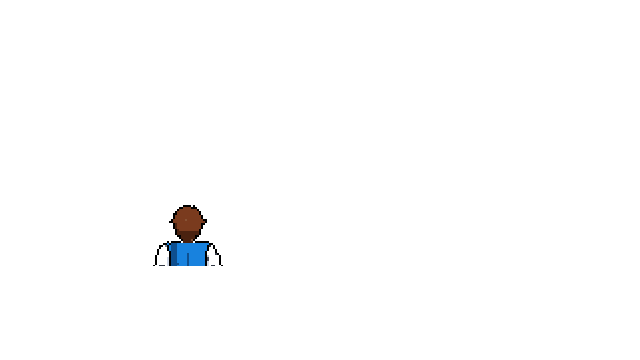
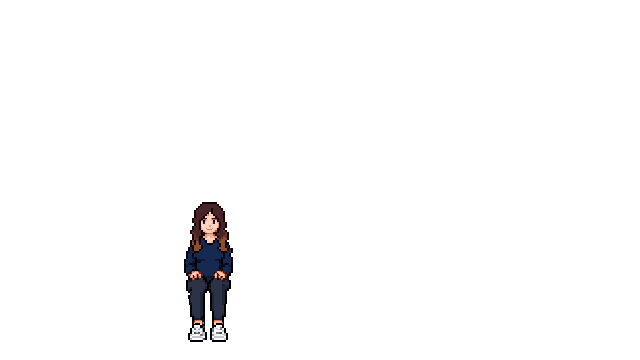
Toujours trop de sprit

Changed region(s): [[0.25, 0.55, 0.375, 0.9472]]

diff --git a/index.html b/index.html
@@ -31,19 +31,30 @@
       </div>
 
       <!-- Wagons : calques empilés de l'arrière vers l'avant, un seul wagon visible à la fois -->
+      <!-- Wagon 01 : les élèves, tous tournés vers le spectateur.
+           Les bancs sont des calques séparés (banc-01 au fond, banc-02 au milieu, banc-03 devant) :
+           les voyageurs d'une rangée se placent juste après le calque de leur banc.
+           Pensées provisoires (Lorem ipsum) en attendant les vraies. -->
       <section class="wagon" data-titre="Lorem ipsum">
         <img class="wagon__calque" src="assets/images/commun/passage.png" alt="">
         <img class="wagon__calque wagon__porte wagon__porte--gauche" src="assets/images/commun/porte-gauche.png" alt="">
         <img class="wagon__calque wagon__porte wagon__porte--droite" src="assets/images/commun/porte-droite.png" alt="">
-        <img class="wagon__calque" src="assets/images/wagon-01/interieur.png" alt="Intérieur du wagon, banquettes en bois face à face">
-        <img class="wagon__calque" src="assets/images/wagon-01/banc-02.png" alt="">
+        <img class="wagon__calque" src="assets/images/wagon-01/interieur.png" alt="Intérieur d'une voiture en bois, banquettes tournées vers le spectateur">
         <img class="wagon__calque" src="assets/images/wagon-01/banc-01.png" alt="">
-        <img class="wagon__calque" src="assets/images/wagon-01/banc-03.png" alt="">
-        <img class="wagon__calque wagon__personnage" src="assets/images/wagon-01/personnage-01.png" alt="Vieux monsieur assis de dos" data-nom="Margot" data-pensee="Lorem ipsum dolor sit amet, consectetur adipiscing elit.">
-        <img class="wagon__calque wagon__personnage" src="assets/images/wagon-01/personnage-02.png" alt="Voyageuse aux cheveux violets, assise de face" data-nom="Jules" data-pensee="Sed do eiusmod tempor incididunt ut labore.">
+        <img class="wagon__calque" src="assets/images/wagon-01/banc-02.png" alt="">
+        <!-- Rangée du milieu -->
+        <img class="wagon__calque wagon__personnage" src="assets/images/wagon-01/personnage-01.png" alt="Lino, assis sur la banquette (personnage provisoire)" data-nom="Lino" data-pensee="Lorem ipsum dolor sit amet, consectetur adipiscing elit.">
         <!-- Joaquim : sprite dessiné par Lino, posé tel quel (sans retouche ni mise à l'échelle) -->
-        <img class="wagon__calque wagon__personnage" src="assets/images/wagon-01/personnage-03.png" alt="Joaquim, assis sur la banquette, un livre bleu sur les genoux" data-nom="Joaquim" data-pensee="Ut enim ad minim veniam, quis nostrud.">
-        <img class="wagon__calque wagon__personnage" src="assets/images/wagon-01/personnage-04.png" alt="Voyageur assis de dos" data-nom="Paul" data-pensee="Duis aute irure dolor in reprehenderit.">
+        <img class="wagon__calque wagon__personnage" src="assets/images/wagon-01/personnage-02.png" alt="Joaquim, assis sur la banquette, un livre bleu sur les genoux" data-nom="Joaquim" data-pensee="Ut enim ad minim veniam, quis nostrud.">
+        <img class="wagon__calque wagon__personnage" src="assets/images/wagon-01/personnage-03.png" alt="Inas, assis sur la banquette (personnage provisoire)" data-nom="Inas" data-pensee="Sed do eiusmod tempor incididunt ut labore.">
+        <!-- Erine : sprite dessiné par Inas, posé tel quel. Elle ne parle qu'en PHP (bulle de code) -->
+        <img class="wagon__calque wagon__personnage" src="assets/images/wagon-01/personnage-04.png" alt="Erine, longs cheveux bruns, pull bleu marine, assise sur la banquette" data-nom="Erine" data-langage="php" data-pensee="<?php echo &quot;Lorem ipsum dolor sit amet&quot;; ?>">
+        <img class="wagon__calque" src="assets/images/wagon-01/banc-03.png" alt="">
+        <!-- Rangée de devant, coupée par le bas de l'écran -->
+        <img class="wagon__calque wagon__personnage" src="assets/images/wagon-01/personnage-05.png" alt="Lilian, assis sur la banquette (personnage provisoire)" data-nom="Lilian" data-pensee="Duis aute irure dolor in reprehenderit.">
+        <img class="wagon__calque wagon__personnage" src="assets/images/wagon-01/personnage-06.png" alt="Raphaël, assis sur la banquette (personnage provisoire)" data-nom="Raphaël" data-pensee="Excepteur sint occaecat cupidatat non proident.">
+        <img class="wagon__calque wagon__personnage" src="assets/images/wagon-01/personnage-07.png" alt="Liku, assis sur la banquette (personnage provisoire)" data-nom="Liku" data-pensee="Nemo enim ipsam voluptatem quia voluptas sit.">
+        <img class="wagon__calque wagon__personnage" src="assets/images/wagon-01/personnage-08.png" alt="Alio, assis sur la banquette (personnage provisoire)" data-nom="Alio" data-pensee="Quis autem vel eum iure reprehenderit.">
       </section>
 
       <!-- Wagon 02 : voiture-salon de 1re classe d'un train à vapeur (vers 1900).
@@ -58,10 +69,13 @@
         <img class="wagon__calque wagon__porte wagon__porte--droite" src="assets/images/commun/porte-droite.png" alt="">
         <img class="wagon__calque" src="assets/images/wagon-02/interieur.png" alt="Voiture-salon de luxe d'un train à vapeur : boiseries d'acajou, fauteuils de velours rouge, lampes à gaz">
         <img class="wagon__calque wagon__lueur" src="assets/images/wagon-02/lueurs.png" alt="">
-        <img class="wagon__calque wagon__personnage" src="assets/images/wagon-02/personnage-01.png" alt="Monsieur en haut-de-forme" data-nom="Max" data-pensee="Quis autem vel eum iure reprehenderit.">
-        <img class="wagon__calque wagon__personnage" src="assets/images/wagon-02/personnage-02.png" alt="Dame au grand chapeau à plume" data-nom="Rose" data-pensee="Neque porro quisquam est, qui dolorem ipsum.">
-        <img class="wagon__calque wagon__personnage" src="assets/images/wagon-02/personnage-03.png" alt="Enfant en costume marin" data-nom="Lucie" data-pensee="Excepteur sint occaecat cupidatat non proident.">
-        <img class="wagon__calque wagon__personnage" src="assets/images/wagon-02/personnage-04.png" alt="Vieux monsieur à canne et monocle" data-nom="Hugo" data-pensee="Nemo enim ipsam voluptatem quia voluptas sit.">
+        <!-- Les professeurs, en tenues de 1900, dans des fauteuils pivotants tournés vers le spectateur.
+             Pensées provisoires (Lorem ipsum) en attendant les vraies. -->
+        <img class="wagon__calque wagon__personnage" src="assets/images/wagon-02/personnage-01.png" alt="Mr Blanco, chapeau melon et noeud papillon rouge, dans un fauteuil de velours" data-nom="Mr Blanco" data-pensee="Quis autem vel eum iure reprehenderit.">
+        <img class="wagon__calque wagon__personnage" src="assets/images/wagon-02/personnage-02.png" alt="Mr Bernard, haut-de-forme et monocle, un journal sur les genoux" data-nom="Mr Bernard" data-pensee="Neque porro quisquam est, qui dolorem ipsum.">
+        <img class="wagon__calque wagon__personnage" src="assets/images/wagon-02/personnage-03.png" alt="Mme De velder, grand chapeau à plume et robe turquoise" data-nom="Mme De velder" data-pensee="Excepteur sint occaecat cupidatat non proident.">
+        <img class="wagon__calque wagon__personnage" src="assets/images/wagon-02/personnage-04.png" alt="Mme Pitot, chignon et robe violette à col montant" data-nom="Mme Pitot" data-pensee="Nemo enim ipsam voluptatem quia voluptas sit.">
+        <img class="wagon__calque wagon__personnage" src="assets/images/wagon-02/personnage-05.png" alt="Mr Gassin, canotier de paille et veste bleu marine, au premier plan" data-nom="Mr Gassin" data-pensee="Ut enim ad minima veniam, quis nostrum.">
       </section>
 
       <section class="wagon" data-titre="Consectetur">

diff --git a/js/main.js b/js/main.js
@@ -287,11 +287,25 @@ function porteVerrouillee(portes) {
 }
 
 
+// Calques de décor placés après ce personnage dans son wagon (bancs de devant, par exemple) :
+// ils sont dessinés par-dessus lui et cachent une partie de son corps.
+// Les calques d'ambiance (lueurs, fumée) sont transparents à l'oeil et ne comptent pas.
+// image : élément img.wagon__personnage
+function calquesDevant(image) {
+  const calques = [...image.closest(".wagon").querySelectorAll(".wagon__calque")];
+  return calques
+    .slice(calques.indexOf(image) + 1)
+    .filter((calque) => !calque.matches(".wagon__personnage, .wagon__lueur, .wagon__fumee"));
+}
+
 // Lit les pixels d'une image de personnage : quels pixels sont visibles,
 // et où se trouve le haut de sa tête (ancrage de la bulle).
+// Le personnage est dessiné en entier : les pixels cachés par un calque de décor posé
+// devant lui (un banc) sont retirés, pour que seul ce qu'on voit de lui réagisse au survol.
 // image : élément img.wagon__personnage
 async function analyserPersonnage(image) {
-  await image.decode();
+  const devant = calquesDevant(image);
+  await Promise.all([image, ...devant].map((calque) => calque.decode()));
 
   // On dessine l'image en taille réelle (640 x 360) dans un canvas invisible
   const toile = document.createElement("canvas");
@@ -299,6 +313,9 @@ async function analyserPersonnage(image) {
   toile.height = TOILE_HAUTEUR;
   const contexte = toile.getContext("2d");
   contexte.drawImage(image, 0, 0, TOILE_LARGEUR, TOILE_HAUTEUR);
+  // "destination-out" efface du personnage tout ce que les calques de devant recouvrent
+  contexte.globalCompositeOperation = "destination-out";
+  devant.forEach((calque) => contexte.drawImage(calque, 0, 0, TOILE_LARGEUR, TOILE_HAUTEUR));
   const pixels = contexte.getImageData(0, 0, TOILE_LARGEUR, TOILE_HAUTEUR).data;
 
   // Un pixel est visible si son canal alpha (4e valeur) n'est pas nul
@@ -389,6 +406,8 @@ function afficherPensee(image) {
   const presBordGauche = positionX < ZONE_BORD;
   const presBordDroit = positionX > 1 - ZONE_BORD;
   bulleNom.textContent = image.dataset.nom;
+  // Un voyageur qui « parle » en code (data-langage, ex. Erine en PHP) a une bulle de code
+  bulle.classList.toggle("pensee--code", Boolean(image.dataset.langage));
   ecrirePensee(image.dataset.pensee);
 
   // Près d'un bord, la bulle s'aligne sur la tête au lieu d'être centrée

diff --git a/css/style.css b/css/style.css
@@ -25,6 +25,8 @@
   --couleur-contour: #ffffff;
   --couleur-etiquette-fermee: #d8364b;
   --couleur-pensee-nom: #1882de;
+  /* Texte des voyageurs qui « parlent » en code (Erine, en PHP) */
+  --couleur-pensee-code: #6a3d8f;
   --couleur-actif: #fdc86e;
   --couleur-voile-accueil: rgba(27, 26, 38, 0.82);
   --couleur-voile-carton: rgba(27, 26, 38, 0.75);
@@ -368,6 +370,12 @@ img {
   margin-left: calc(-3.5 * var(--pensee-pixel));
   background: url("../assets/images/interface/bulle-queue.png") center / 100% 100% no-repeat;
   image-rendering: pixelated;
+}
+
+/* Pensée écrite en code (attribut data-langage sur le personnage) : violet du PHP, sans coupure de mot */
+.pensee--code .pensee__texte {
+  color: var(--couleur-pensee-code);
+  overflow-wrap: anywhere;
 }
 
 /* Personnage près du bord gauche : la bulle part vers la droite,

diff --git a/DOCUMENTATION.md b/DOCUMENTATION.md
@@ -28,6 +28,7 @@ Des personnages sont assis dans le wagon. Selon l'architecture du wagon, on les 
 - La bulle est un nuage pixel art (`assets/images/interface/bulle-cadre.png`, découpé en 9 morceaux par le CSS) relié à la tête par deux petites bulles (`bulle-queue.png`). Elle affiche le prénom du personnage (`data-nom`) puis sa pensée, écrite lettre par lettre.
 - Le survol est détecté au pixel près : seuls les pixels visibles du calque du personnage comptent, pas le rectangle de l'image.
 - La bulle se place au-dessus du pixel le plus haut du personnage (le haut de la tête). Rien à régler : dessiner le personnage suffit.
+- Un personnage qui « parle » en code (Erine, qui ne parle qu'en PHP) porte `data-langage="php"` : sa pensée s'écrit en violet, comme du code (`<?php echo "..."; ?>`).
 - Cette détection lit les pixels des images, ce que le navigateur n'autorise qu'avec un serveur. Il faut donc toujours ouvrir le site avec Live Server, jamais en double-cliquant sur `index.html`.
 
 Le rendu est en **pixel art 2D**, dans le style de Joaquim (le personnage de Lino) : voir la charte de direction artistique, section 4.
@@ -125,7 +126,9 @@ R.308---Multimedia/
     │   │   ├── bulle-queue.png     petites bulles entre le nuage et la tête (7 x 11)
     │   │   └── curseur-oeil.png    curseur sur un personnage (32 x 32)
     │   ├── wagon-01/
-    │   │   ├── interieur.png       parois, sol, plafond, banquettes
+    │   │   ├── interieur.png       parois, sol, plafond (sans les bancs)
+    │   │   ├── banc-01.png         rangée de bancs du fond (et poêle), puis banc-02 au milieu, banc-03 devant
+    │   │   ├── erine.png           sprite d'Erine dessiné par Inas (source, pas affiché tel quel)
     │   │   ├── personnage-01.png   un fichier par personnage
     │   │   └── personnage-02.png   ...
     │   ├── wagon-02/
@@ -151,7 +154,7 @@ Ces règles garantissent que les dessins des 4 membres s'assemblent sans retouch
 
 ### Charte de direction artistique (DA « Joaquim »)
 
-La référence visuelle du projet est **Joaquim**, le personnage dessiné par Lino (sprite de 70 x 144 pixels, assis sur une banquette du wagon 01 : `assets/images/wagon-01/personnage-03.png`). Tout ce qu'on dessine doit pouvoir s'asseoir à côté de lui sans faire tache. L'esprit : de la 2D simple, colorée et expressive, comme les jeux Pokémon en 2D. Pas de 3D, pas de rendu réaliste.
+La référence visuelle du projet est **Joaquim**, le personnage dessiné par Lino (sprite de 70 x 144 pixels, assis sur une banquette du wagon 01 : `assets/images/wagon-01/personnage-02.png`). Tout ce qu'on dessine doit pouvoir s'asseoir à côté de lui sans faire tache. L'esprit : de la 2D simple, colorée et expressive, comme les jeux Pokémon en 2D. Pas de 3D, pas de rendu réaliste.
 
 | Règle | Concrètement |
 |---|---|
@@ -161,7 +164,7 @@ La référence visuelle du projet est **Joaquim**, le personnage dessiné par Li
 | Encrage du décor | Entre deux zones de couleur du décor (deux faces d'un meuble, un cadre de fenêtre, une porte), un trait d'un pixel plus sombre que la couleur. Autour des trous (fenêtres, porte), un trait noir. |
 | Ombres simples | Une couleur de base, une ombre (plus sombre et un peu bleutée, jamais grise) et au besoin un reflet clair. Trois tons par matière, pas plus. |
 | Couleurs vives | Couleurs franches et saturées, paysage de beau temps (ciel bleu, collines vertes). Une ambiance plus sombre est permise si le wagon le demande (le salon vapeur, chaud et feutré). |
-| Personnages | Proportions et ombrages de Joaquim : tête d'environ un quart de la hauteur du personnage assis, corps large d'environ la moitié de sa hauteur bras compris, chemise blanche à plis gris, deux tons par vêtement, trait noir entre les pièces. Les voyageurs provisoires du wagon 01 sont des variantes de Joaquim (couleurs, coiffure, lunettes, vue de dos). |
+| Personnages | Proportions et ombrages de Joaquim : tête d'environ un quart de la hauteur du personnage assis, corps large d'environ la moitié de sa hauteur bras compris, chemise blanche à plis gris, deux tons par vêtement, trait noir entre les pièces. Les voyageurs provisoires sont des variantes de Joaquim (couleurs, coiffure, lunettes ; au wagon 02, chapeaux, moustaches, robes longues de 1900) en attendant que chacun dessine son propre sprite. |
 | Pixel net | Pixels pleins uniquement : pas d'anticrénelage, pas de pixel semi-transparent. Les trames (un pixel sur deux) sont permises pour les lumières et la vapeur. |
 | Pas de mise à l'échelle | Un sprite se dessine directement à sa taille finale, jamais agrandi ou réduit après coup (sinon les pixels ne sont plus de la même taille que ceux de Joaquim). |
 
@@ -169,7 +172,7 @@ Taille des personnages : un adulte assis mesure **72 pixels de grille** de haut 
 
 Interface : boutons et étiquettes façon boîte de dialogue de jeu 2D (fond blanc, trait noir, ombre pleine), titre d'accueil jaune cerné de bleu nuit.
 
-Pour vérifier un dessin : l'ouvrir à côté de `wagon-01/personnage-03.png` (Joaquim) au même zoom. Mêmes tailles de pixels, même épaisseur de trait, couleurs aussi vives : c'est bon.
+Pour vérifier un dessin : l'ouvrir à côté de `wagon-01/personnage-02.png` (Joaquim) au même zoom. Mêmes tailles de pixels, même épaisseur de trait, couleurs aussi vives : c'est bon.
 
 ### Format
 
@@ -194,7 +197,7 @@ Point de fuite : **x = 320, y = 180** (centre exact de la toile).
 | Banquettes | le long des parois, du bas de l'écran jusqu'au mur du fond |
 | Fenêtres | sur les parois, au-dessus des banquettes, trouées (transparentes). Nombre, taille et forme libres selon le wagon |
 | Panneau numéroté | x 304 à 335, y 126 à 139, au-dessus de la porte (numéro du wagon sur deux chiffres, chiffres de 6 x 10 pixels) |
-| Personnages | vus de côté, de face ou de dos selon les sièges. Pieds visibles quand ils ne sont pas cachés par un siège : le bas de l'écran ne doit couper personne |
+| Personnages | de préférence de face, tournés vers le spectateur, pour qu'on voie chaque visage. Rangée du milieu : bord avant de l'assise à la profondeur de Joaquim (le dessous des cuisses vers y 298). Seule la rangée de devant peut être coupée par le bas de l'écran (on n'en voit que le haut du corps) |
 
 Ouvrir `assets/images/wagon-01/interieur.png` dans son logiciel donne tous ces repères : on peut s'en servir comme gabarit.
 
@@ -206,13 +209,13 @@ Ouvrir `assets/images/wagon-01/interieur.png` dans son logiciel donne tous ces r
 4. `porte-gauche.png` et `porte-droite.png`
 5. `interieur.png` (avec trous transparents pour les fenêtres et la porte)
 6. `lueurs.png` (facultatif, classe `wagon__lueur`) : halos des lampes
-7. `personnage-XX.png`, du plus éloigné au plus proche
+7. `personnage-XX.png`, du plus éloigné au plus proche. Dans un wagon à bancs en calques (wagon 01), chaque rangée de voyageurs vient juste après le calque de son banc : `banc-01`, `banc-02`, voyageurs du milieu, `banc-03`, voyageurs de devant.
 
 Calques facultatifs d'ambiance, utilisables par tous les wagons (le wagon 02 sert d'exemple) :
 - `wagon__fumee` : dessiné loin dehors, sur les plans du paysage (profondeur 3 à 6). `main.js` l'agrandit en boucle depuis le point de fuite, ce qui fait glisser son contenu le long des fenêtres vers le spectateur. Mettre trois fois la même image dans la section : les copies sont décalées dans le temps pour un défilement continu.
 - `wagon__lueur` : halos tramés (pixels pleins, un sur deux ou un sur quatre) autour des lampes. Le CSS les ajoute à l'image en mode écran (`mix-blend-mode: screen`) et `main.js` fait vaciller leur opacité comme une flamme.
 
-Les personnages sont toujours au-dessus de l'intérieur. Si un siège placé devant un voyageur doit le cacher en partie (banquette en travers, dossier), on dessine le voyageur **déjà découpé** : les pixels cachés par le siège sont transparents dans son calque. Ainsi seule sa partie visible réagit au survol.
+Les personnages sont toujours au-dessus de l'intérieur. Si un siège placé devant un voyageur doit le cacher en partie (banquette de la rangée de devant, dossier), on le met dans **un calque de décor à part**, placé après le voyageur dans `index.html` (comme `banc-03` au wagon 01). Le voyageur est alors dessiné **en entier**, sans le découper à la main : c'est l'ordre des calques qui cache le bas de son corps (méthode proposée par Lilian). Au chargement, `main.js` retire du survol les pixels du voyageur recouverts par un calque de décor posé après lui : seule sa partie visible réagit. Les calques d'ambiance (`wagon__lueur`, `wagon__fumee`) ne comptent pas. Un voyageur déjà découpé (wagon 02) marche aussi.
 
 ### Palette
 
@@ -237,11 +240,10 @@ Chaque wagon peut ajouter **quelques couleurs propres** (5 au maximum) pour son 
 
 ### Personnages dessinés à la main
 
-Un personnage dessiné par un membre (comme Joaquim) se pose tel quel dans son wagon :
-- on dessine le sprite seul, détouré, sur la grille (environ 72 pixels de haut pour un adulte assis au milieu du wagon), avec son contour noir, puis on le double ;
-- on le colle sur une toile 640 x 360 transparente, les pieds au sol de sa place (le gabarit `interieur.png` du wagon en calque de dessous aide à viser) ;
-- on l'exporte en `personnage-XX.png` dans le dossier du wagon, en gardant l'ordre du plus éloigné au plus proche ;
-- on envoie aussi le sprite seul à Lino, qui garde les originaux et les outils qui régénèrent les calques.
+Un personnage dessiné par un membre (comme Joaquim par Lino, ou Erine par Inas) se pose tel quel dans son wagon. Le plus simple :
+- dessiner le sprite seul, assis **de face** (tourné vers le spectateur), détouré, avec son contour noir, à la même taille que Joaquim : environ 72 pixels de grille de haut, donc 144 une fois doublé (`joaquim.png` et `erine.png` sont sur une toile de 168 x 168) ;
+- le déposer dans le dossier du wagon sous son prénom (comme `wagon-01/erine.png`) et prévenir Lino : il le met à la place du voyageur provisoire, assis sur sa banquette, le banc de devant passant par-dessus lui ;
+- les voyageurs provisoires des wagons 01 et 02 attendent tous leur sprite : chacun peut dessiner le sien.
 
 ---
 
@@ -269,7 +271,7 @@ Un personnage dessiné par un membre (comme Joaquim) se pose tel quel dans son w
     <img class="wagon__calque wagon__personnage" src="assets/images/wagon-01/personnage-01.png" alt="Voyageur assis" data-nom="Margot" data-pensee="Lorem ipsum dolor sit amet.">
   </section>
   ```
-- Chaque personnage porte son prénom dans `data-nom` (affiché en haut de sa bulle) et sa pensée dans `data-pensee`. Pour l'instant ce sont des phrases en Lorem ipsum, à remplacer par les vraies pensées. Le texte reste court (une ou deux phrases), sinon la bulle devient trop grande.
+- Chaque personnage porte son prénom dans `data-nom` (affiché en haut de sa bulle) et sa pensée dans `data-pensee`. Un personnage qui pense en code ajoute `data-langage="php"` (bulle de code, voir section 1). Pour l'instant ce sont des phrases en Lorem ipsum, à remplacer par les vraies pensées. Le texte reste court (une ou deux phrases), sinon la bulle devient trop grande.
 - Les calques décoratifs ont `alt=""`, les personnages et l'intérieur ont un `alt` descriptif en français.
 - Pas de style en ligne (`style="..."`) ni de script en ligne (`onclick="..."`).
 
@@ -323,8 +325,8 @@ L'ordre de ce tableau est l'ordre du train.
 
 | N° | Dossier | Architecture (placeholder) | Histoire | Couleurs propres | Responsable | État |
 |---|---|---|---|---|---|---|
-| 01 | `wagon-01` | Voiture en bois clair (placeholder) : compartiments ouverts, banquettes en bois face à face, poêle à charbon, toit à lanterneau, lampes suspendues. À droite, Joaquim (personnage de Lino) assis sur la banquette. Voyageurs de face et de dos | Placeholder (Lorem ipsum), futur wagon MMI | aucune en plus de la palette | à définir | placeholder + Joaquim |
-| 02 | `wagon-02` | Voiture-salon de 1re classe d'un train à vapeur (vers 1900) : voûte en acajou à caissons, filets de laiton, fenêtres cintrées à rideaux de velours et lambrequins, appliques et lampes à gaz, fauteuils de velours capitonnés, guéridons à nappe blanche, tapis d'Orient, tableaux au mur du fond. Dehors, la fumée de la locomotive passe devant les fenêtres. Voyageurs de côté, en tenue 1900 (enfant en marin, vieux monsieur à monocle, haut-de-forme, dame à chapeau à plume) | Le Salon à vapeur (pensées en Lorem ipsum) | acajou `#7a3b2e`, acajou sombre `#47212a`, laiton `#c98f3e`, velours `#b3263f`, velours prune `#5e1f45` | à définir | illustration v2 (DA Joaquim) |
+| 01 | `wagon-01` | Voiture en bois clair (placeholder) : banquettes en bois toutes tournées vers le spectateur (rangée du milieu, rangée de devant à dossier bas, coupée par le bas de l'écran), poêle à charbon, toit à lanterneau, lampes suspendues. Bancs en calques séparés (`banc-01` à `banc-03`). Les 8 élèves : au milieu Lino, Joaquim, Inas et Erine ; devant Lilian, Raphaël, Liku et Alio | Placeholder (Lorem ipsum), futur wagon MMI | aucune en plus de la palette | à définir | Joaquim et Erine dessinés à la main, les 6 autres provisoires (variantes de Joaquim) |
+| 02 | `wagon-02` | Voiture-salon de 1re classe d'un train à vapeur (vers 1900) : voûte en acajou à caissons, filets de laiton, fenêtres cintrées à rideaux de velours et lambrequins, appliques et lampes à gaz, fauteuils pivotants de velours capitonnés tournés vers le spectateur, guéridons à nappe blanche, tapis d'Orient, tableaux au mur du fond. Dehors, la fumée de la locomotive passe devant les fenêtres. Les 5 professeurs en tenue 1900 : Mr Blanco (melon), Mr Bernard (haut-de-forme, monocle), Mme De velder (chapeau à plume), Mme Pitot (chignon), Mr Gassin (canotier, au premier plan) | Le Salon à vapeur (pensées en Lorem ipsum) | acajou `#7a3b2e`, acajou sombre `#47212a`, laiton `#c98f3e`, velours `#b3263f`, velours prune `#5e1f45` | à définir | illustration v2 (DA Joaquim), professeurs provisoires (variantes de Joaquim) |
 | 03 | `wagon-03` | Voiture Corail (années 1980) : rangées de sièges orange tournés vers la porte, têtières blanches, néons. Voyageurs de dos, tête au-dessus des dossiers | Placeholder (Consectetur) | aucune | à définir | placeholder |
 | 04 | `wagon-04` | Train du futur : sièges coques le long des parois, plafond arrondi, bandes lumineuses cyan, grandes baies. Voyageurs de côté | Placeholder (Adipiscing elit) | aucune | à définir | placeholder |
 
@@ -381,6 +383,7 @@ Chaque étape est validée par l'équipe avant de passer à la suivante.
 1. Documentation commune (fait)
 2. Maquette : 4 wagons en perspective, placeholders pixel art, navigation porte et bouton Arrière (fait)
 2 bis. Direction artistique « Joaquim » : toile en 640 x 360, tous les calques redessinés dans le style de Joaquim, Joaquim dans le wagon 01 (fait)
+2 ter. Les vraies personnes : les 8 élèves dans le wagon 01, les 5 professeurs dans le wagon 02, Erine qui parle en PHP (fait, pensées en Lorem ipsum, sprites provisoires à remplacer)
 3. Choix des 4 histoires et répartition des wagons entre les membres
 4. Pensées : bulle au survol ou au toucher d'un personnage (fait, textes en Lorem ipsum)
 5. Illustrations définitives de chaque wagon (après validation)
